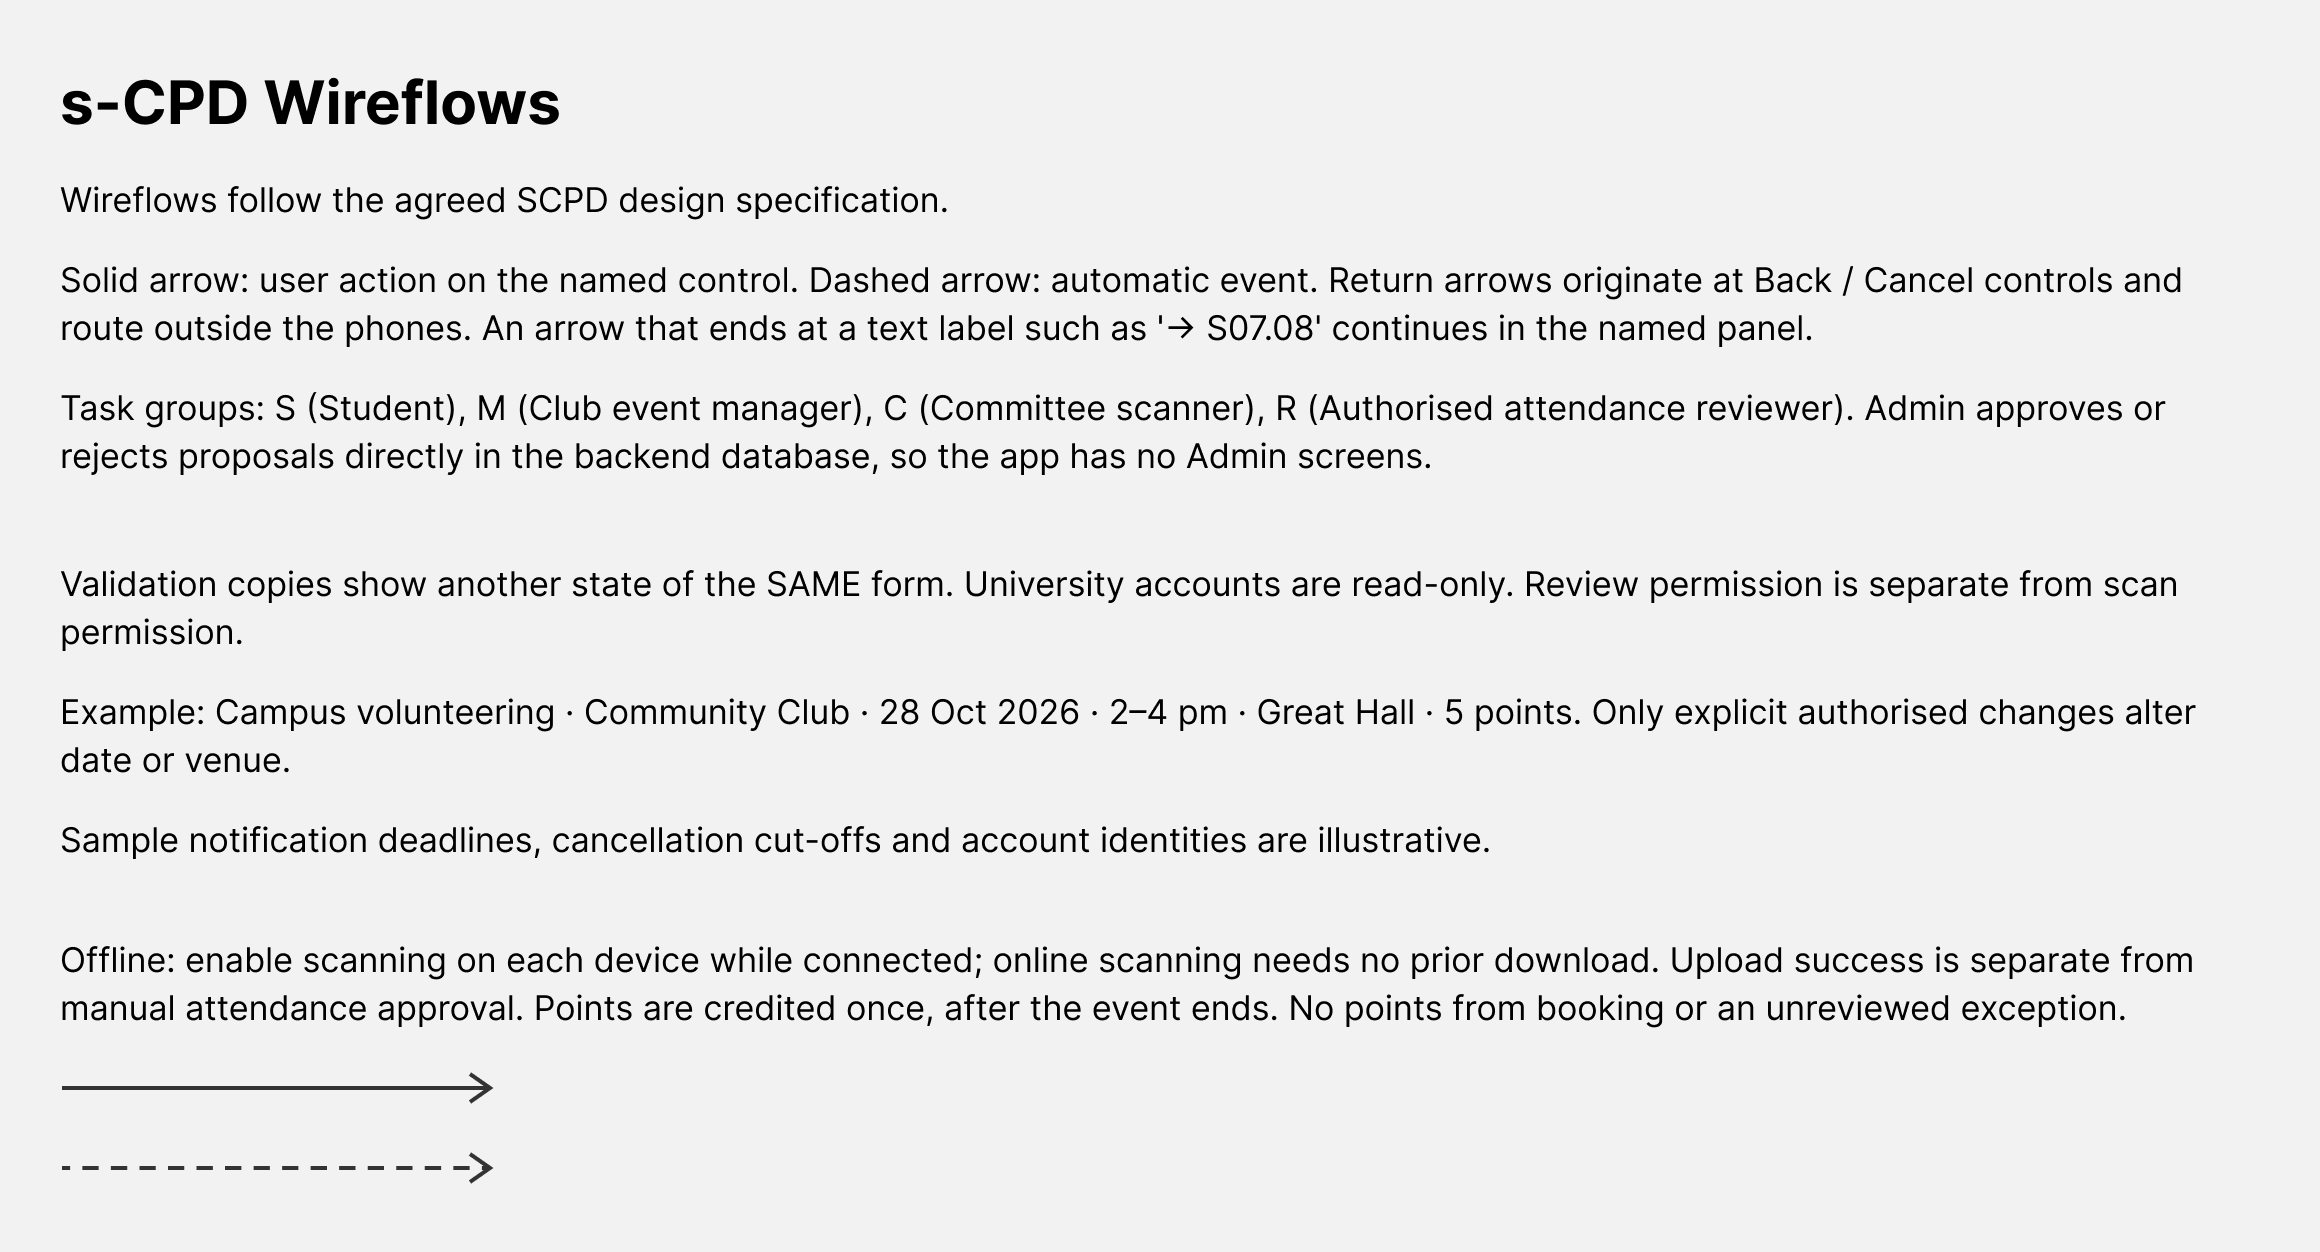
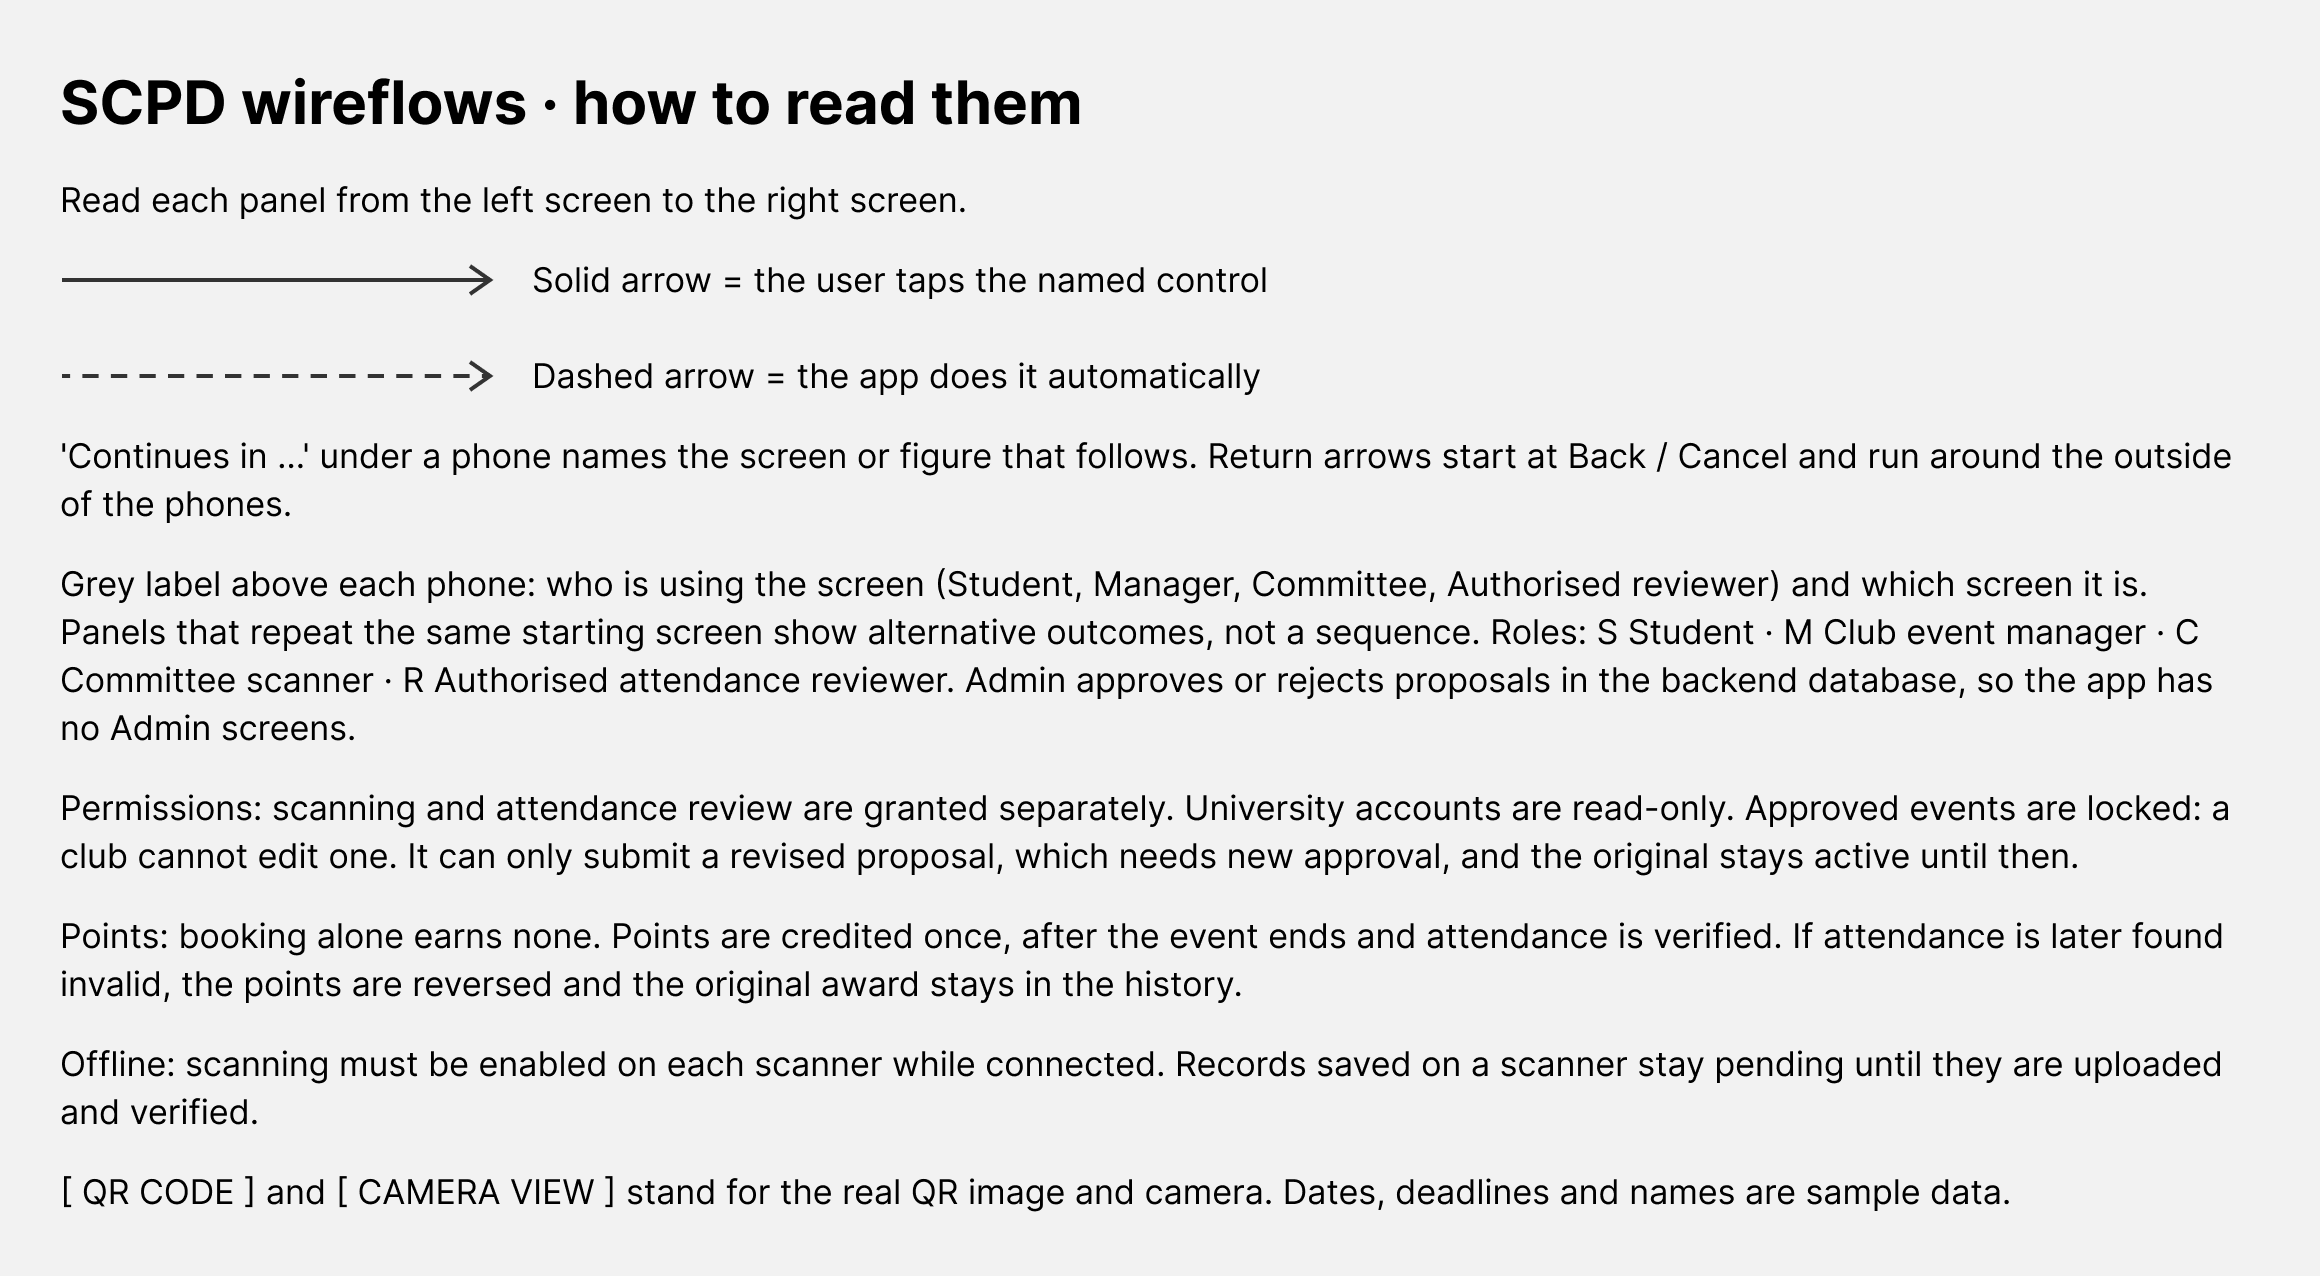
Update Part 1 wireframe exports (30 figures).

diff --git a/docs/wireframes/README.md b/docs/wireframes/README.md
@@ -6,34 +6,36 @@ Click an image to view it at full size.
 
 | Figure | Panel | Title | Requirement | Image |
 | --- | --- | --- | --- | --- |
-| 01 | Legend | Legend | Legend | [Figure 01](images/01-legend.png) |
-| 02 | S01.03 | Sign in | R6 | [Figure 02](images/02-S01.03-sign-in.png) |
-| 03 | S02.01 | Discover and filter events | R2 | [Figure 03](images/03-S02.01-discover-filter.png) |
-| 04 | S02.05 | No search results | R2 | [Figure 04](images/04-S02.05-no-results.png) |
-| 05 | S04.01 | Event details and booking | R2 | [Figure 05](images/05-S04.01-event-details-booking.png) |
-| 06 | S05.01 | Booking clash | R2 | [Figure 06](images/06-S05.01-booking-clash.png) |
-| 07 | S07.04 | Cancel booking | R2 | [Figure 07](images/07-S07.04-cancel-booking.png) |
-| 08 | S09.01 | Join the waiting list | R2 | [Figure 08](images/08-S09.01-join-waiting-list.png) |
-| 09 | S11.01 | Accept a waiting-list offer | R2 | [Figure 09](images/09-S11.01-accept-offer.png) |
-| 10 | S13.03 | Open the attendance pass | R3, R4 | [Figure 10](images/10-S13.03-open-attendance-pass.png) |
-| 11 | S13.04 | QR code rotation | R3, R4 | [Figure 11](images/11-S13.04-qr-rotation.png) |
-| 12 | S14.02 | My SCPD points and history | R5 | [Figure 12](images/12-S14.02-my-points.png) |
-| 13 | S14.03 | Attendance status after scanning | R4, R5 | [Figure 13](images/13-S14.03-attendance-status.png) |
-| 14 | S18.01 | Reminder preferences | Own feature 1 | [Figure 14](images/14-S18.01-reminder-preferences.png) |
-| 15 | S15.02 | Reminder notification | Own feature 1 | [Figure 15](images/15-S15.02-reminder-notification.png) |
-| 16 | M01.01 | Role-based entry | R6 | [Figure 16](images/16-M01.01-role-based-entry.png) |
-| 17 | M02.03 | Create event details | R1 | [Figure 17](images/17-M02.03-create-event-details.png) |
-| 18 | M04.01 | Review and submit proposal | R1 | [Figure 18](images/18-M04.01-review-submission.png) |
-| 19 | M05.02 | Proposal status | R1 | [Figure 19](images/19-M05.02-proposal-status.png) |
-| 20 | M05.03 | Proposal rejected with reason | R1 | [Figure 20](images/20-M05.03-proposal-rejected.png) |
-| 21 | M06.01 | Approved event is locked | R1 | [Figure 21](images/21-M06.01-approved-event-locked.png) |
-| 22 | M13.01 | Club analytics | Own feature 2 | [Figure 22](images/22-M13.01-club-analytics.png) |
-| 23 | C02.01 | Enable offline scanning | R4 | [Figure 23](images/23-C02.01-enable-offline-scanning.png) |
-| 24 | C03.02 | Online scanning | R3 | [Figure 24](images/24-C03.02-online-scanning.png) |
-| 25 | C04.02 | Offline scanning | R4 | [Figure 25](images/25-C04.02-offline-scanning.png) |
-| 26 | C05.05 | Manual attendance request | R3, R4 | [Figure 26](images/26-C05.05-manual-attendance-request.png) |
-| 27 | C07.04 | Pending uploads | R4 | [Figure 27](images/27-C07.04-pending-uploads.png) |
-| 28 | R01.03 | Review request | R5, R6 | [Figure 28](images/28-R01.03-review-request.png) |
+| 01 | Legend | Legend | - | [Figure 01](images/01-legend.png) |
+| 02 | S01 | University sign in: failed attempt, then success | R6 | [Figure 02](images/02-S01-sign-in.png) |
+| 03 | S02.01 | Discover events: filter or view an event | R2 | [Figure 03](images/03-S02.01-discover-filter.png) |
+| 04 | S02.02 | Discover events: no results for a search | R2 | [Figure 04](images/04-S02.02-no-results.png) |
+| 05 | S03 | Book a place on Event details - Available | R2 | [Figure 05](images/05-S03-event-details-booking.png) |
+| 06 | S04 | Booking clash | R2 | [Figure 06](images/06-S04-booking-clash.png) |
+| 07 | S05 | Cancel booking | R2 | [Figure 07](images/07-S05-cancel-booking.png) |
+| 08 | S06 | Event details - Join Waiting List | R2 | [Figure 08](images/08-S06-join-waiting-list.png) |
+| 09 | S07 | Accept the offer: place confirmed, or clash | R2 | [Figure 09](images/09-S07-accept-offer.png) |
+| 10 | S08.01 | Download the attendance pass: online or offline | R3 R4 | [Figure 10](images/10-S08.01-download-attendance-pass.png) |
+| 11 | S08.02 | Open the attendance pass | R3 R4 | [Figure 11](images/11-S08.02-open-attendance-pass.png) |
+| 12 | S08.03 | Attendance pass - Rotation Time | R3 R4 | [Figure 12](images/12-S08.03-qr-rotation.png) |
+| 13 | S09.01 | My SCPD points | R5 | [Figure 13](images/13-S09.01-my-points.png) |
+| 14 | S09.02 | Attendance status - Outcomes after scanning | R4 R5 | [Figure 14](images/14-S09.02-attendance-status.png) |
+| 15 | S10 | Notifications | own feature 1 | [Figure 15](images/15-S10-reminder-notification.png) |
+| 16 | S11 | Notification preferences | own feature 1 | [Figure 16](images/16-S11-reminder-preferences.png) |
+| 17 | M01 | Profile & settings | R6 | [Figure 17](images/17-M01-role-based-entry.png) |
+| 18 | M02 | Manage events | R1 (approved events are locked) | [Figure 18](images/18-M02-approved-event-locked.png) |
+| 19 | M03 | Fill Basic event details | R1 | [Figure 19](images/19-M03-create-event-details.png) |
+| 20 | M04 | Review submission | R1 | [Figure 20](images/20-M04-review-submission.png) |
+| 21 | M05.01 | Proposal status | R1 | [Figure 21](images/21-M05.01-proposal-status.png) |
+| 22 | M05.02 | Proposal status | R1 | [Figure 22](images/22-M05.02-proposal-rejected.png) |
+| 23 | M06 | Club analytics | own feature 2 | [Figure 23](images/23-M06-club-analytics.png) |
+| 24 | C01 | Scanner | R4 | [Figure 24](images/24-C01-enable-offline-scanning.png) |
+| 25 | C02 | Scan attendance - Online | R3 | [Figure 25](images/25-C02-online-scanning.png) |
+| 26 | C03 | Scan attendance - Offline | R4 | [Figure 26](images/26-C03-offline-scanning.png) |
+| 27 | C04 | Request manual attendance review | R3 R4 | [Figure 27](images/27-C04-manual-attendance-request.png) |
+| 28 | C05 | Pending uploads | R4 R5 | [Figure 28](images/28-C05-pending-uploads.png) |
+| 29 | R01 | Requests for review | R5 R6 | [Figure 29](images/29-R01-requests-for-review.png) |
+| 30 | R02 | Review request | R5 R6 | [Figure 30](images/30-R02-review-request.png) |
 
 ## Figure 01 · Legend · Legend
 
@@ -41,164 +43,176 @@ Click an image to view it at full size.
 
 Caption: TODO
 
-## Figure 02 · S01.03 · Sign in
+## Figure 02 · S01 · University sign in: failed attempt, then success
 
-[![Figure 02](images/02-S01.03-sign-in.png)](images/02-S01.03-sign-in.png)
+[![Figure 02](images/02-S01-sign-in.png)](images/02-S01-sign-in.png)
 
 Caption: TODO
 
-## Figure 03 · S02.01 · Discover and filter events
+## Figure 03 · S02.01 · Discover events: filter or view an event
 
 [![Figure 03](images/03-S02.01-discover-filter.png)](images/03-S02.01-discover-filter.png)
 
 Caption: TODO
 
-## Figure 04 · S02.05 · No search results
+## Figure 04 · S02.02 · Discover events: no results for a search
 
-[![Figure 04](images/04-S02.05-no-results.png)](images/04-S02.05-no-results.png)
-
-Caption: TODO
-
-## Figure 05 · S04.01 · Event details and booking
-
-[![Figure 05](images/05-S04.01-event-details-booking.png)](images/05-S04.01-event-details-booking.png)
+[![Figure 04](images/04-S02.02-no-results.png)](images/04-S02.02-no-results.png)
 
 Caption: TODO
 
-## Figure 06 · S05.01 · Booking clash
+## Figure 05 · S03 · Book a place on Event details - Available
 
-[![Figure 06](images/06-S05.01-booking-clash.png)](images/06-S05.01-booking-clash.png)
-
-Caption: TODO
-
-## Figure 07 · S07.04 · Cancel booking
-
-[![Figure 07](images/07-S07.04-cancel-booking.png)](images/07-S07.04-cancel-booking.png)
+[![Figure 05](images/05-S03-event-details-booking.png)](images/05-S03-event-details-booking.png)
 
 Caption: TODO
 
-## Figure 08 · S09.01 · Join the waiting list
+## Figure 06 · S04 · Booking clash
 
-[![Figure 08](images/08-S09.01-join-waiting-list.png)](images/08-S09.01-join-waiting-list.png)
-
-Caption: TODO
-
-## Figure 09 · S11.01 · Accept a waiting-list offer
-
-[![Figure 09](images/09-S11.01-accept-offer.png)](images/09-S11.01-accept-offer.png)
+[![Figure 06](images/06-S04-booking-clash.png)](images/06-S04-booking-clash.png)
 
 Caption: TODO
 
-## Figure 10 · S13.03 · Open the attendance pass
+## Figure 07 · S05 · Cancel booking
 
-[![Figure 10](images/10-S13.03-open-attendance-pass.png)](images/10-S13.03-open-attendance-pass.png)
-
-Caption: TODO
-
-## Figure 11 · S13.04 · QR code rotation
-
-[![Figure 11](images/11-S13.04-qr-rotation.png)](images/11-S13.04-qr-rotation.png)
+[![Figure 07](images/07-S05-cancel-booking.png)](images/07-S05-cancel-booking.png)
 
 Caption: TODO
 
-## Figure 12 · S14.02 · My SCPD points and history
+## Figure 08 · S06 · Event details - Join Waiting List
 
-[![Figure 12](images/12-S14.02-my-points.png)](images/12-S14.02-my-points.png)
-
-Caption: TODO
-
-## Figure 13 · S14.03 · Attendance status after scanning
-
-[![Figure 13](images/13-S14.03-attendance-status.png)](images/13-S14.03-attendance-status.png)
+[![Figure 08](images/08-S06-join-waiting-list.png)](images/08-S06-join-waiting-list.png)
 
 Caption: TODO
 
-## Figure 14 · S18.01 · Reminder preferences
+## Figure 09 · S07 · Accept the offer: place confirmed, or clash
 
-[![Figure 14](images/14-S18.01-reminder-preferences.png)](images/14-S18.01-reminder-preferences.png)
-
-Caption: TODO
-
-## Figure 15 · S15.02 · Reminder notification
-
-[![Figure 15](images/15-S15.02-reminder-notification.png)](images/15-S15.02-reminder-notification.png)
+[![Figure 09](images/09-S07-accept-offer.png)](images/09-S07-accept-offer.png)
 
 Caption: TODO
 
-## Figure 16 · M01.01 · Role-based entry
+## Figure 10 · S08.01 · Download the attendance pass: online or offline
 
-[![Figure 16](images/16-M01.01-role-based-entry.png)](images/16-M01.01-role-based-entry.png)
-
-Caption: TODO
-
-## Figure 17 · M02.03 · Create event details
-
-[![Figure 17](images/17-M02.03-create-event-details.png)](images/17-M02.03-create-event-details.png)
+[![Figure 10](images/10-S08.01-download-attendance-pass.png)](images/10-S08.01-download-attendance-pass.png)
 
 Caption: TODO
 
-## Figure 18 · M04.01 · Review and submit proposal
+## Figure 11 · S08.02 · Open the attendance pass
 
-[![Figure 18](images/18-M04.01-review-submission.png)](images/18-M04.01-review-submission.png)
-
-Caption: TODO
-
-## Figure 19 · M05.02 · Proposal status
-
-[![Figure 19](images/19-M05.02-proposal-status.png)](images/19-M05.02-proposal-status.png)
+[![Figure 11](images/11-S08.02-open-attendance-pass.png)](images/11-S08.02-open-attendance-pass.png)
 
 Caption: TODO
 
-## Figure 20 · M05.03 · Proposal rejected with reason
+## Figure 12 · S08.03 · Attendance pass - Rotation Time
 
-[![Figure 20](images/20-M05.03-proposal-rejected.png)](images/20-M05.03-proposal-rejected.png)
-
-Caption: TODO
-
-## Figure 21 · M06.01 · Approved event is locked
-
-[![Figure 21](images/21-M06.01-approved-event-locked.png)](images/21-M06.01-approved-event-locked.png)
+[![Figure 12](images/12-S08.03-qr-rotation.png)](images/12-S08.03-qr-rotation.png)
 
 Caption: TODO
 
-## Figure 22 · M13.01 · Club analytics
+## Figure 13 · S09.01 · My SCPD points
 
-[![Figure 22](images/22-M13.01-club-analytics.png)](images/22-M13.01-club-analytics.png)
-
-Caption: TODO
-
-## Figure 23 · C02.01 · Enable offline scanning
-
-[![Figure 23](images/23-C02.01-enable-offline-scanning.png)](images/23-C02.01-enable-offline-scanning.png)
+[![Figure 13](images/13-S09.01-my-points.png)](images/13-S09.01-my-points.png)
 
 Caption: TODO
 
-## Figure 24 · C03.02 · Online scanning
+## Figure 14 · S09.02 · Attendance status - Outcomes after scanning
 
-[![Figure 24](images/24-C03.02-online-scanning.png)](images/24-C03.02-online-scanning.png)
-
-Caption: TODO
-
-## Figure 25 · C04.02 · Offline scanning
-
-[![Figure 25](images/25-C04.02-offline-scanning.png)](images/25-C04.02-offline-scanning.png)
+[![Figure 14](images/14-S09.02-attendance-status.png)](images/14-S09.02-attendance-status.png)
 
 Caption: TODO
 
-## Figure 26 · C05.05 · Manual attendance request
+## Figure 15 · S10 · Notifications
 
-[![Figure 26](images/26-C05.05-manual-attendance-request.png)](images/26-C05.05-manual-attendance-request.png)
-
-Caption: TODO
-
-## Figure 27 · C07.04 · Pending uploads
-
-[![Figure 27](images/27-C07.04-pending-uploads.png)](images/27-C07.04-pending-uploads.png)
+[![Figure 15](images/15-S10-reminder-notification.png)](images/15-S10-reminder-notification.png)
 
 Caption: TODO
 
-## Figure 28 · R01.03 · Review request
+## Figure 16 · S11 · Notification preferences
 
-[![Figure 28](images/28-R01.03-review-request.png)](images/28-R01.03-review-request.png)
+[![Figure 16](images/16-S11-reminder-preferences.png)](images/16-S11-reminder-preferences.png)
+
+Caption: TODO
+
+## Figure 17 · M01 · Profile & settings
+
+[![Figure 17](images/17-M01-role-based-entry.png)](images/17-M01-role-based-entry.png)
+
+Caption: TODO
+
+## Figure 18 · M02 · Manage events
+
+[![Figure 18](images/18-M02-approved-event-locked.png)](images/18-M02-approved-event-locked.png)
+
+Caption: TODO
+
+## Figure 19 · M03 · Fill Basic event details
+
+[![Figure 19](images/19-M03-create-event-details.png)](images/19-M03-create-event-details.png)
+
+Caption: TODO
+
+## Figure 20 · M04 · Review submission
+
+[![Figure 20](images/20-M04-review-submission.png)](images/20-M04-review-submission.png)
+
+Caption: TODO
+
+## Figure 21 · M05.01 · Proposal status
+
+[![Figure 21](images/21-M05.01-proposal-status.png)](images/21-M05.01-proposal-status.png)
+
+Caption: TODO
+
+## Figure 22 · M05.02 · Proposal status
+
+[![Figure 22](images/22-M05.02-proposal-rejected.png)](images/22-M05.02-proposal-rejected.png)
+
+Caption: TODO
+
+## Figure 23 · M06 · Club analytics
+
+[![Figure 23](images/23-M06-club-analytics.png)](images/23-M06-club-analytics.png)
+
+Caption: TODO
+
+## Figure 24 · C01 · Scanner
+
+[![Figure 24](images/24-C01-enable-offline-scanning.png)](images/24-C01-enable-offline-scanning.png)
+
+Caption: TODO
+
+## Figure 25 · C02 · Scan attendance - Online
+
+[![Figure 25](images/25-C02-online-scanning.png)](images/25-C02-online-scanning.png)
+
+Caption: TODO
+
+## Figure 26 · C03 · Scan attendance - Offline
+
+[![Figure 26](images/26-C03-offline-scanning.png)](images/26-C03-offline-scanning.png)
+
+Caption: TODO
+
+## Figure 27 · C04 · Request manual attendance review
+
+[![Figure 27](images/27-C04-manual-attendance-request.png)](images/27-C04-manual-attendance-request.png)
+
+Caption: TODO
+
+## Figure 28 · C05 · Pending uploads
+
+[![Figure 28](images/28-C05-pending-uploads.png)](images/28-C05-pending-uploads.png)
+
+Caption: TODO
+
+## Figure 29 · R01 · Requests for review
+
+[![Figure 29](images/29-R01-requests-for-review.png)](images/29-R01-requests-for-review.png)
+
+Caption: TODO
+
+## Figure 30 · R02 · Review request
+
+[![Figure 30](images/30-R02-review-request.png)](images/30-R02-review-request.png)
 
 Caption: TODO
